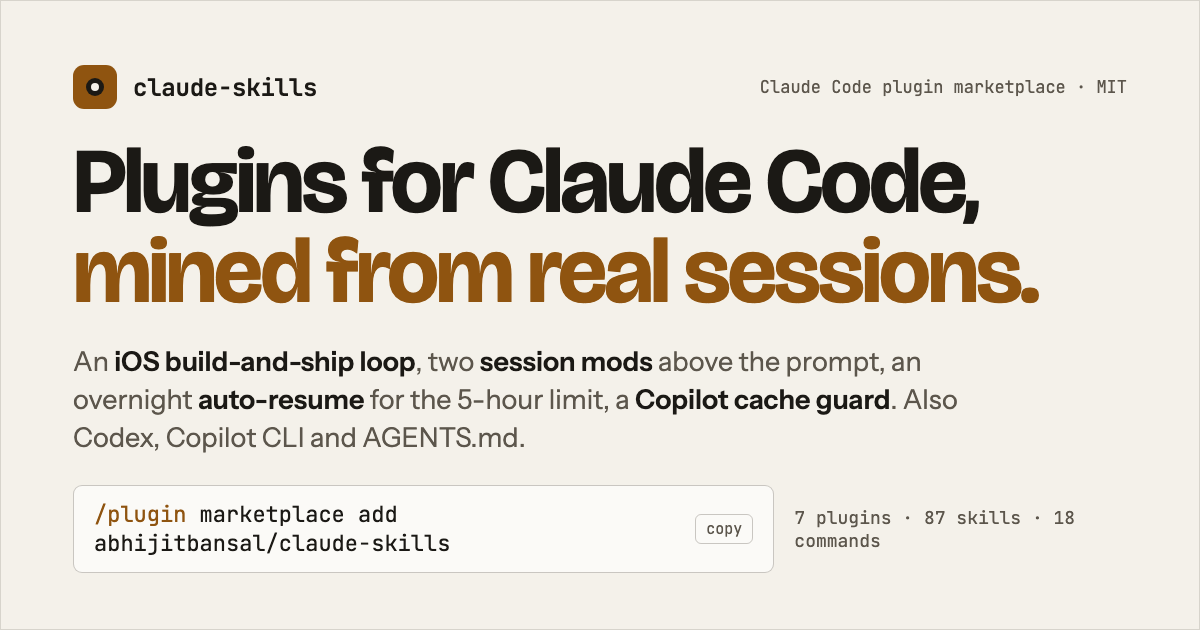
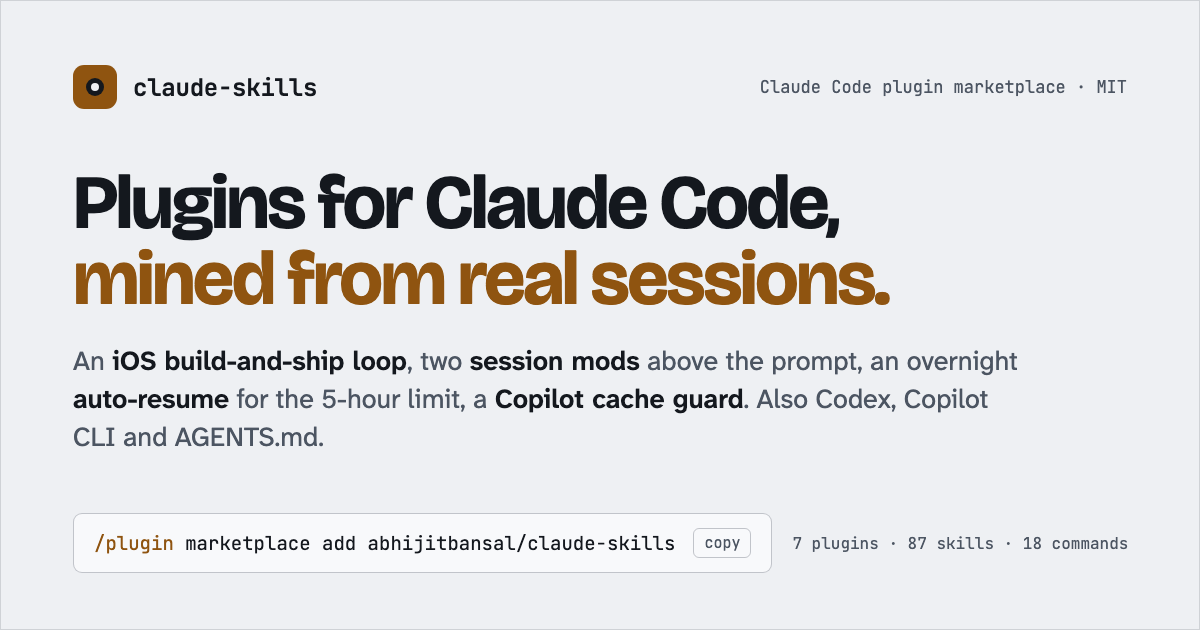
style(site): Atkinson Hyperlegible Next body face and cool slate light theme
Replace Instrument Sans with Atkinson Hyperlegible Next (OFL, self-hosted
variable WOFF2) and move the light theme from warm cream to cool slate, the
light twin of the dark theme. In the shared CSS, guide and step items become
rule-separated blocks instead of cards, so code blocks are the only boxes.
Terminal bands get a full border, and the heading scale steps up. The OG card
gets the new face and palette, plus a smaller headline.

Changed region(s): [[0.0617, 0.2111, 0.8633, 0.4825], [0.0617, 0.5429, 0.8633, 0.7238], [0.0617, 0.7841, 0.9558, 0.8746]]

diff --git a/site/assets/site.css b/site/assets/site.css
@@ -8,16 +8,16 @@
 
 /* Self-hosted fonts (latin, variable) — see skill site-og-favicon-verify:
    externally-hosted fonts break under a strict CSP and leak visitor IPs.
-   Instrument Sans and Bricolage Grotesque: SIL Open Font License. JetBrains Mono: OFL. */
-@font-face{font-family:'Instrument Sans';font-style:normal;font-weight:400 700;font-display:swap;src:url('fonts/instrument-sans-latin-variable.woff2') format('woff2');}
+   Atkinson Hyperlegible Next and Bricolage Grotesque: SIL Open Font License. JetBrains Mono: OFL. */
+@font-face{font-family:'Atkinson Hyperlegible Next';font-style:normal;font-weight:200 800;font-display:swap;src:url('fonts/atkinson-hyperlegible-next-latin-variable.woff2') format('woff2');}
 @font-face{font-family:'Bricolage Grotesque';font-style:normal;font-weight:400 800;font-display:swap;src:url('fonts/bricolage-grotesque-latin-variable.woff2') format('woff2');}
 @font-face{font-family:'JetBrains Mono';font-style:normal;font-weight:400 700;font-display:swap;src:url('fonts/jetbrains-mono-latin-variable.woff2') format('woff2');}
 
 :root{
-  /* warm paper neutrals */
-  --bg:#f4f1ea; --surface:#fbfaf7; --surface2:#ece8df; --surface3:#e3ded2;
-  --border:rgba(43,35,22,.13); --border-bright:rgba(43,35,22,.24);
-  --text:#1b1915; --text-dim:#5c564c; --text-faint:#6a6356;
+  /* cool slate neutrals, the light twin of the dark theme */
+  --bg:#eef0f3; --surface:#f8f9fb; --surface2:#e4e7ec; --surface3:#d9dde4;
+  --border:rgba(22,30,44,.13); --border-bright:rgba(22,30,44,.24);
+  --text:#14181e; --text-dim:#4c5562; --text-faint:#5a6371;
 
   /* the one accent, plus desaturated status colours */
   --accent:#8f5410; --accent-dim:rgba(143,84,16,.10); --on-accent:#fff8ec;
@@ -36,9 +36,9 @@
 
   --maxw:1120px;
   --r-lg:14px; --r-md:10px; --r-sm:7px;
-  --shadow:0 1px 2px rgba(43,35,22,.05), 0 14px 36px -18px rgba(43,35,22,.18);
+  --shadow:0 1px 2px rgba(22,30,44,.05), 0 14px 36px -18px rgba(22,30,44,.18);
   --font-head:'Bricolage Grotesque',sans-serif;
-  --font-body:'Instrument Sans',system-ui,sans-serif;
+  --font-body:'Atkinson Hyperlegible Next',system-ui,sans-serif;
   --font-mono:'JetBrains Mono',ui-monospace,monospace;
 }
 /* dark: follows the OS unless the theme switch pins light; the switch can also pin dark */
@@ -189,7 +189,7 @@ h3.subtitle{font-size:clamp(20px,2.6vw,26px);font-weight:600;margin:0 0 10px}
 .grid{display:grid;gap:16px}
 .grid.cols-2{grid-template-columns:repeat(auto-fit,minmax(300px,1fr))}
 .grid.cols-3{grid-template-columns:repeat(auto-fit,minmax(270px,1fr))}
-.card,.gitem,.istep,.prob,.feat,.crow,.callout,.inv .row,.tree,.code{box-shadow:var(--lift)}
+.card,.prob,.feat,.crow,.callout,.inv .row,.tree,.code{box-shadow:var(--lift)}
 .card{background:var(--surface);border:1px solid var(--border);border-radius:var(--r-md);padding:22px;position:relative;overflow:hidden}
 .card.pad-lg{padding:30px 26px;box-shadow:var(--shadow)}
 
@@ -259,10 +259,10 @@ h3.subtitle{font-size:clamp(20px,2.6vw,26px);font-weight:600;margin:0 0 10px}
 .irow p{color:var(--text-dim);font-size:14.5px;margin:0;text-wrap:pretty}
 .irow .code.cmds{margin:0}
 @media(max-width:700px){.irow{grid-template-columns:1fr;gap:10px}}
-.istep{background:var(--surface);border:1px solid var(--border);border-radius:var(--r-md);padding:22px 20px}
+.istep{border-top:1px solid var(--border);padding:20px 0 4px}
 .istep .num{font-family:var(--font-mono);font-size:12.5px;color:var(--accent);font-weight:600}
-.istep h3{font-size:17px;margin:8px 0 4px;letter-spacing:-.01em}
-.istep p{color:var(--text-dim);font-size:14.5px;margin:0 0 14px;text-wrap:pretty}
+.istep h3{font-size:19px;margin:8px 0 4px;letter-spacing:-.01em}
+.istep p{color:var(--text-dim);font-size:15px;margin:0 0 14px;text-wrap:pretty}
 
 /* ── feature-page doc layout (TOC + content) ────────────────────────────── */
 .doc{display:grid;grid-template-columns:210px 1fr;gap:48px;align-items:start;padding:30px 0 60px}
@@ -274,22 +274,23 @@ h3.subtitle{font-size:clamp(20px,2.6vw,26px);font-weight:600;margin:0 0 10px}
 .doc-main{min-width:0}
 .doc-section{scroll-margin-top:78px;padding:8px 0 36px;border-bottom:1px solid var(--border);margin-bottom:8px}
 .doc-section:last-child{border-bottom:none}
-.doc-section > h2{font-size:clamp(23px,3vw,31px);font-weight:700;letter-spacing:-.025em;margin:0 0 14px;display:flex;align-items:center;gap:10px}
+.doc-section > h2{font-size:clamp(26px,3vw,32px);font-weight:700;letter-spacing:-.025em;margin:0 0 14px;display:flex;align-items:center;gap:10px}
 .doc-section > h2 .ix{font-family:var(--font-mono);font-size:13px;color:var(--accent);font-weight:500;letter-spacing:0}
 .doc-section p{color:var(--text-dim);font-size:15.5px;max-width:68ch}
 .doc-section p strong,.doc-section p b{color:var(--text)}
 @media(max-width:860px){.doc{grid-template-columns:1fr;gap:0}.toc{display:none}}
 
 /* usability / how-it-works item lists */
-.guide{display:grid;gap:14px;margin-top:6px}
-.gitem{background:var(--surface);border:1px solid var(--border);border-radius:var(--r-md);padding:18px 20px;position:relative}
-.gitem h4{font-size:16px;margin:0 0 6px;color:var(--text);font-family:var(--font-head);letter-spacing:-.01em}
-.gitem h4 code{font-size:14px;color:var(--accent);background:none;border:none;padding:0}
-.gitem p{font-size:14.5px;margin:0;color:var(--text-dim)}
+/* items are separated by rules, not boxed: the code blocks inside them are the only boxes */
+.guide{display:grid;gap:0;margin-top:6px}
+.gitem{border-top:1px solid var(--border);padding:20px 0;position:relative}
+.gitem :is(h3,h4){font-size:19px;margin:0 0 6px;color:var(--text);font-family:var(--font-head);letter-spacing:-.01em}
+.gitem :is(h3,h4) code{font-size:16px;color:var(--accent);background:none;border:none;padding:0}
+.gitem p{font-size:15px;margin:0;color:var(--text-dim)}
 .gitem .code{margin-top:12px}
-.steps{counter-reset:step;display:grid;gap:12px;margin-top:6px}
-.steps .gitem{padding-left:54px}
-.steps .gitem::before{counter-increment:step;content:counter(step);position:absolute;left:16px;top:18px;
+.steps{counter-reset:step;display:grid;gap:0;margin-top:6px}
+.steps .gitem{padding-left:42px}
+.steps .gitem::before{counter-increment:step;content:counter(step);position:absolute;left:0;top:20px;
   width:26px;height:26px;border-radius:7px;background:var(--accent-dim);color:var(--accent);
   font-family:var(--font-mono);font-weight:700;font-size:13px;display:flex;align-items:center;justify-content:center}
 
@@ -353,8 +354,8 @@ h3.subtitle{font-size:clamp(20px,2.6vw,26px);font-weight:600;margin:0 0 10px}
 .fchip.active{color:var(--bg);background:var(--text);border-color:var(--text)}
 .cat-count{font-family:var(--font-mono);font-size:12.5px;color:var(--text-faint);margin:0 0 16px}
 .cat-group{margin:0 0 30px}
-.cat-group > h3{font-size:19px;margin:0 0 12px;display:flex;align-items:center;gap:10px;letter-spacing:-.01em}
-.cat-group > h3 .badge{font-family:var(--font-mono);font-size:12px;color:var(--text-dim);background:var(--surface2);border:1px solid var(--border);border-radius:4px;padding:1px 7px;font-weight:500}
+.cat-group > :is(h2,h3){font-size:19px;margin:0 0 12px;display:flex;align-items:center;gap:10px;letter-spacing:-.01em}
+.cat-group > :is(h2,h3) .badge{font-family:var(--font-mono);font-size:12px;color:var(--text-dim);background:var(--surface2);border:1px solid var(--border);border-radius:4px;padding:1px 7px;font-weight:500}
 .cat-grid{display:grid;grid-template-columns:repeat(auto-fill,minmax(280px,1fr));gap:12px}
 .crow{background:var(--surface);border:1px solid var(--border);border-radius:var(--r-sm);padding:13px 15px;transition:border-color .12s}
 .crow:hover{border-color:var(--border-bright)}
@@ -404,8 +405,8 @@ h3.subtitle{font-size:clamp(20px,2.6vw,26px);font-weight:600;margin:0 0 10px}
 .term-body .ln{white-space:pre;overflow:hidden;text-overflow:ellipsis;min-height:1.75em}
 .term-body .dim{color:var(--text-dim)}
 .term-body .ok{color:var(--green)}.term-body .bad{color:var(--rose)}
-.term-body .band{border-left:2px solid var(--border-bright);padding:3px 8px;margin-top:3px;white-space:pre-wrap;overflow-wrap:anywhere;background:var(--surface);border-radius:0 4px 4px 0}
-.term-body .band.tb{border-left-color:var(--accent)}.term-body .band.sc{border-left-color:var(--violet)}
+.term-body .band{border:1px solid var(--border-bright);padding:3px 8px;margin-top:3px;white-space:pre-wrap;overflow-wrap:anywhere;background:var(--surface);border-radius:4px}
+.term-body .band.tb{border-color:color-mix(in srgb,var(--accent) 55%,transparent);background:var(--accent-dim)}.term-body .band.sc{border-color:color-mix(in srgb,var(--violet) 55%,transparent);background:var(--violet-dim)}
 .term-body .sep{height:1px;background:var(--border);margin:8px 0}
 .term-body .prompt{color:var(--text-faint)}
 .term-label{display:flex;justify-content:space-between;gap:12px;font-size:13px;color:var(--text-dim);margin-top:10px}

diff --git a/site/og.html b/site/og.html
@@ -6,30 +6,30 @@
 <!-- Source for og.png (1200×630 social card). Rendered to og.png with headless Chrome; not served directly. -->
 <style>
 @font-face{font-family:'Bricolage Grotesque';font-style:normal;font-weight:400 800;font-display:swap;src:url('assets/fonts/bricolage-grotesque-latin-variable.woff2') format('woff2');}
-@font-face{font-family:'Instrument Sans';font-style:normal;font-weight:400 700;font-display:swap;src:url('assets/fonts/instrument-sans-latin-variable.woff2') format('woff2');}
+@font-face{font-family:'Atkinson Hyperlegible Next';font-style:normal;font-weight:200 800;font-display:swap;src:url('assets/fonts/atkinson-hyperlegible-next-latin-variable.woff2') format('woff2');}
 @font-face{font-family:'JetBrains Mono';font-style:normal;font-weight:400 700;font-display:swap;src:url('assets/fonts/jetbrains-mono-latin-variable.woff2') format('woff2');}
 *{margin:0;box-sizing:border-box}
 html,body{width:1200px;height:630px;overflow:hidden}
 body{
-  font-family:'Instrument Sans',sans-serif;color:#1b1915;background:#f4f1ea;
+  font-family:'Atkinson Hyperlegible Next',sans-serif;color:#14181e;background:#eef0f3;
   padding:64px 72px 56px;display:flex;flex-direction:column;justify-content:space-between;
-  border:1px solid rgba(43,35,22,.14);
+  border:1px solid rgba(22,30,44,.14);
 }
 .top{display:flex;align-items:center;gap:16px}
 .mark{width:44px;height:44px;border-radius:11px;background:#8f5410;display:flex;align-items:center;justify-content:center}
-.mark span{width:18px;height:18px;border-radius:50%;background:#1b1915;display:flex;align-items:center;justify-content:center}
-.mark span::after{content:"";width:8px;height:8px;border-radius:50%;background:#f4f1ea}
+.mark span{width:18px;height:18px;border-radius:50%;background:#14181e;display:flex;align-items:center;justify-content:center}
+.mark span::after{content:"";width:8px;height:8px;border-radius:50%;background:#eef0f3}
 .brand{font-family:'JetBrains Mono';font-size:24px;font-weight:600;letter-spacing:-.01em}
-.kick{margin-left:auto;font-family:'JetBrains Mono';font-size:17px;color:#5c564c}
-h1{font-family:'Bricolage Grotesque';font-size:92px;font-weight:700;letter-spacing:-.035em;line-height:.98;max-width:19ch}
+.kick{margin-left:auto;font-family:'JetBrains Mono';font-size:17px;color:#4c5562}
+h1{font-family:'Bricolage Grotesque';font-size:76px;font-weight:700;letter-spacing:-.035em;line-height:1;max-width:20ch}
 h1 .a{color:#8f5410}
-.lead{font-size:27px;color:#5c564c;max-width:960px;margin-top:26px;line-height:1.4}
-.lead b{color:#1b1915;font-weight:600}
-.cmd{display:inline-flex;align-items:center;gap:18px;font-family:'JetBrains Mono';font-size:22px;background:#fbfaf7;border:1px solid rgba(43,35,22,.24);border-radius:9px;padding:14px 20px}
+.lead{font-size:27px;color:#4c5562;max-width:960px;margin-top:26px;line-height:1.4}
+.lead b{color:#14181e;font-weight:600}
+.cmd{display:inline-flex;align-items:center;gap:18px;white-space:nowrap;font-family:'JetBrains Mono';font-size:19px;background:#f8f9fb;border:1px solid rgba(22,30,44,.24);border-radius:9px;padding:14px 20px}
 .cmd .k{color:#8f5410}
-.cmd .btn{font-size:15px;color:#5c564c;border:1px solid rgba(43,35,22,.24);border-radius:6px;padding:4px 10px}
+.cmd .btn{font-size:15px;color:#4c5562;border:1px solid rgba(22,30,44,.24);border-radius:6px;padding:4px 10px}
 .foot{display:flex;align-items:center;justify-content:space-between;gap:20px}
-.stats{font-family:'JetBrains Mono';font-size:18px;color:#5c564c}
+.stats{font-family:'JetBrains Mono';font-size:16px;color:#4c5562;white-space:nowrap}
 </style>
 </head>
 <body>

diff --git a/site/assets/fonts/LICENSES.md b/site/assets/fonts/LICENSES.md
@@ -7,5 +7,5 @@ distributed under the SIL Open Font License 1.1
 | File | Family | Copyright |
 | --- | --- | --- |
 | `bricolage-grotesque-latin-variable.woff2` | Bricolage Grotesque | © 2022 The Bricolage Grotesque Project Authors (https://github.com/ateliertriay/bricolage) |
-| `instrument-sans-latin-variable.woff2` | Instrument Sans | © 2022 The Instrument Sans Project Authors (https://github.com/Instrument/instrument-sans) |
+| `atkinson-hyperlegible-next-latin-variable.woff2` | Atkinson Hyperlegible Next | © 2020-2024 The Atkinson Hyperlegible Next Project Authors (https://github.com/googlefonts/atkinson-hyperlegible-next) |
 | `jetbrains-mono-latin-variable.woff2` | JetBrains Mono | © 2020 The JetBrains Mono Project Authors (https://github.com/JetBrains/JetBrainsMono) |
